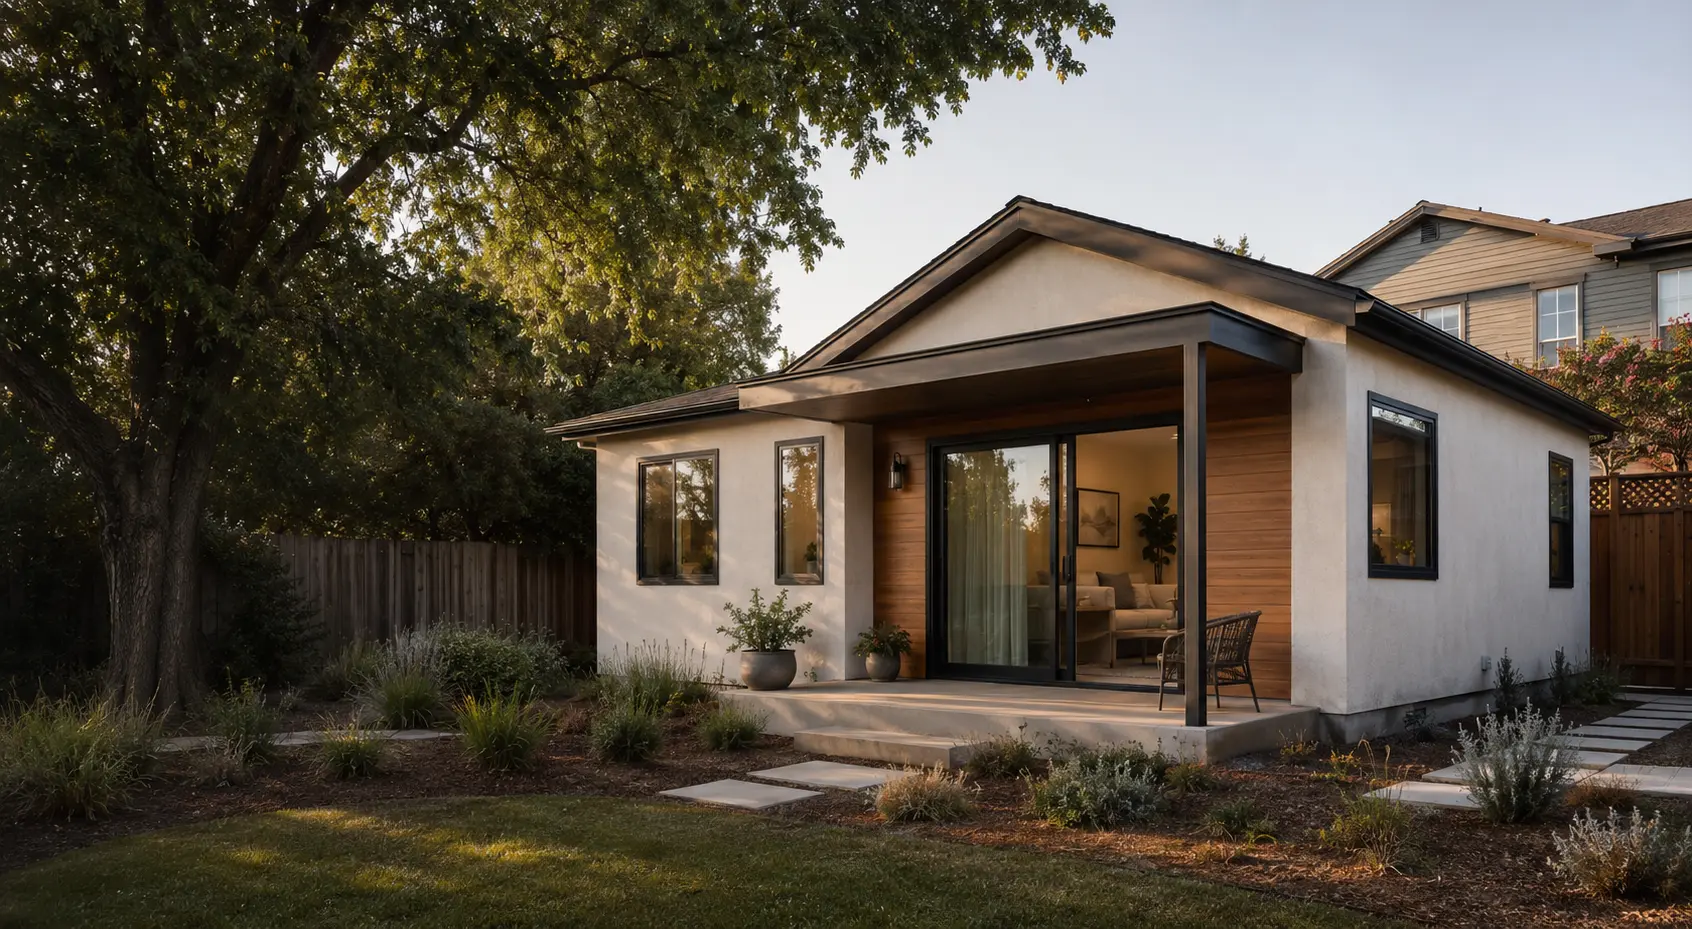
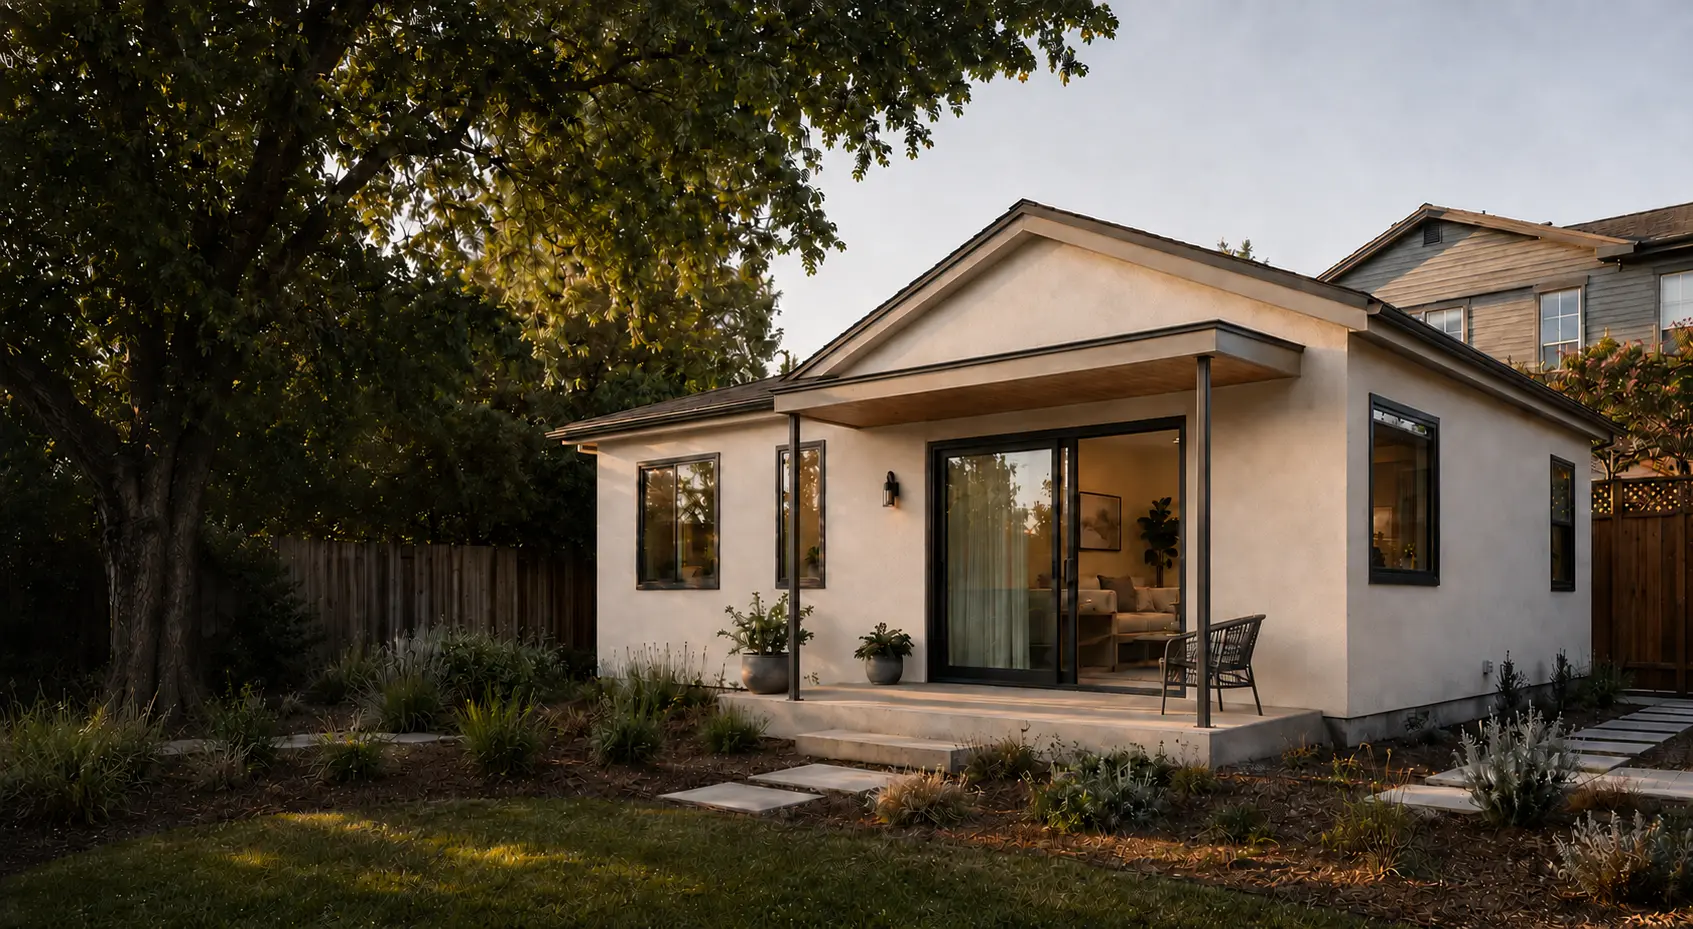
TASK-0010: align residential concept imagery

diff --git a/src/lib/homepage.test.ts b/src/lib/homepage.test.ts
@@ -22,7 +22,7 @@ describe("TASK-0010 residential homepage", () => {
       expect(statSync(absolutePath).size).toBeLessThan(400_000);
     }
 
-    expect(page.match(/Conceptual/g)).toHaveLength(4);
+    expect(page.match(/Conceptual imagery/g)).toHaveLength(4);
     expect(page).toContain("next/image");
   });
 
